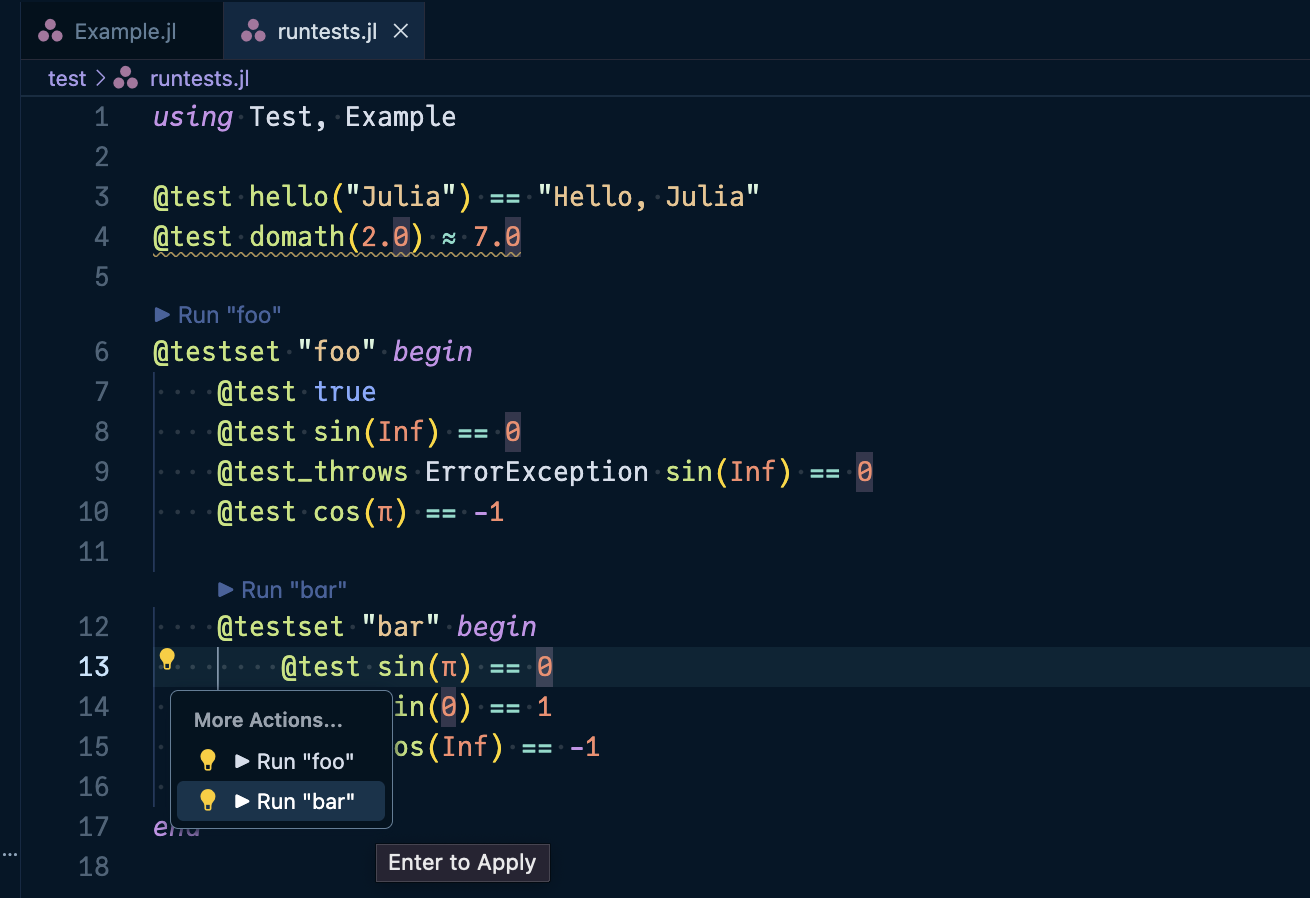
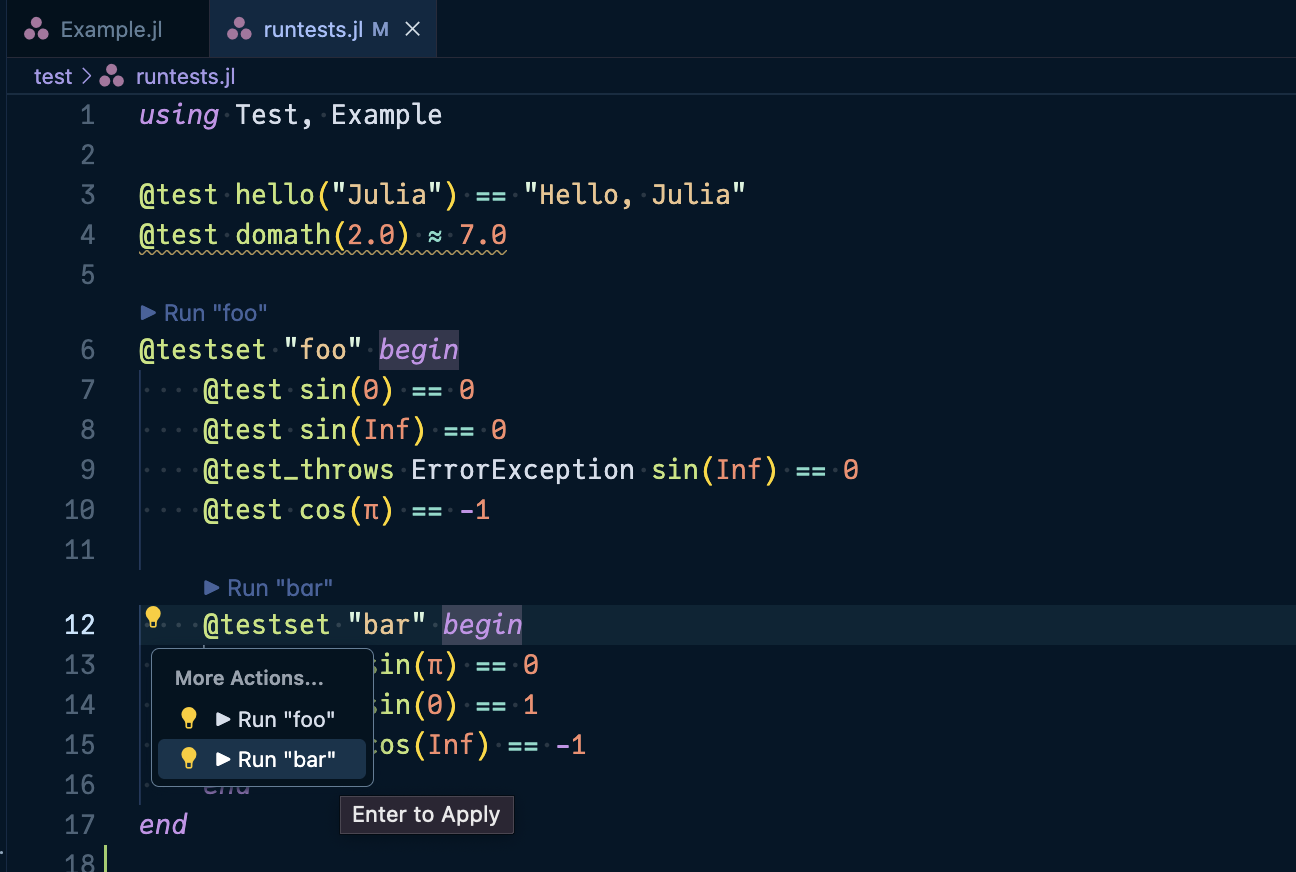
testrunner: add support for running individual `@test` cases via actions
This change introduces the ability to run individual `@test` macro calls
directly from the editor, similar to the existing `@testset`
functionality. The implementation includes code actions for `@test`
macros, temporary diagnostics display for test failures (shown for 10
seconds), and work done progress integration. Trying to enable a new
testing workflow by allowing granular test execution at the `@test`
level, making it easier to debug specific test failures without running
entire test sets.

No code lens support since it would be too noisy otherwise.

Changed region(s): [[0.0617, 0.6502, 0.463, 1.0], [0.0617, 0.3406, 0.679, 0.6502], [0.0, 0.0, 0.5864, 0.3406]]

diff --git a/README.md b/README.md
@@ -129,6 +129,7 @@ the list itself is subject to change.
 - TestRunner.jl integration
   - [x] Code lens for running individual `@testset`s
   - [x] Code actions for running individual `@testset`s
+  - [x] Code actions for running individual `@test` cases
   - [x] Inline test result diagnostics
   - [x] Work done progress during test execution
 
@@ -175,10 +176,19 @@ After running tests, the code lens is refreshed as follows:
 
 #### Code Actions
 
-You can also trigger test runs via "code actions" when the code action range is
-requested inside a `@testset` block:
+You can trigger test runs via "code actions" when the code action range is
+requested:
+- Inside a `@testset` block: Run the entire testset
 > ![TestRunner Code Actions](./assets/testrunner-code-actions-dark.png#gh-dark-mode-only)
 > ![TestRunner Code Actions](./assets/testrunner-code-actions-light.png#gh-light-mode-only)
+
+- On an individual `@test` macro: Run just that specific test case
+> ![TestRunner Code Actions `@test` case](./assets/testrunner-code-actions-test-case-dark.png#gh-dark-mode-only)
+> ![TestRunner Code Actions `@test` case](./assets/testrunner-code-actions-test-case-light.png#gh-light-mode-only)
+
+Note that when running individual `@test` cases, the error results are displayed
+as temporary diagnostics for 10 seconds. Click `☰ Open logs` button in the
+pop up message to view detailed error messages that persist.
 
 #### Test Diagnostics
 
@@ -194,8 +204,9 @@ while tests are running, keeping you informed about long-running test suites.
 
 ### Supported Patterns
 
-The TestRunner integration currently supports named `@testset` blocks like:
+The TestRunner integration supports:
 
+1. **Named `@testset` blocks** (via code lens or code actions):
 ```julia
 using Test
 
@@ -228,6 +239,25 @@ function test_func2()
     end
 end
 @testset "test_func2" test_func2()
+```
+
+2. **Individual `@test` macros** (via code actions only):
+```julia
+# Run individual tests directly
+@test 1 + 1 == 2
+@test sqrt(4) ≈ 2.0
+
+# Also works inside testsets
+@testset "math tests" begin
+    @test sin(0) == 0  # Can run just this test
+    @test cos(π) == -1  # Or just this one
+end
+
+# Multi-line `@test` expressions are just fine
+@test begin
+    x = complex_calculation()
+    validate(x)
+end
 ```
 
 See the [README.md](https://github.com/aviatesk/TestRunner.jl) of TestRunner.jl
